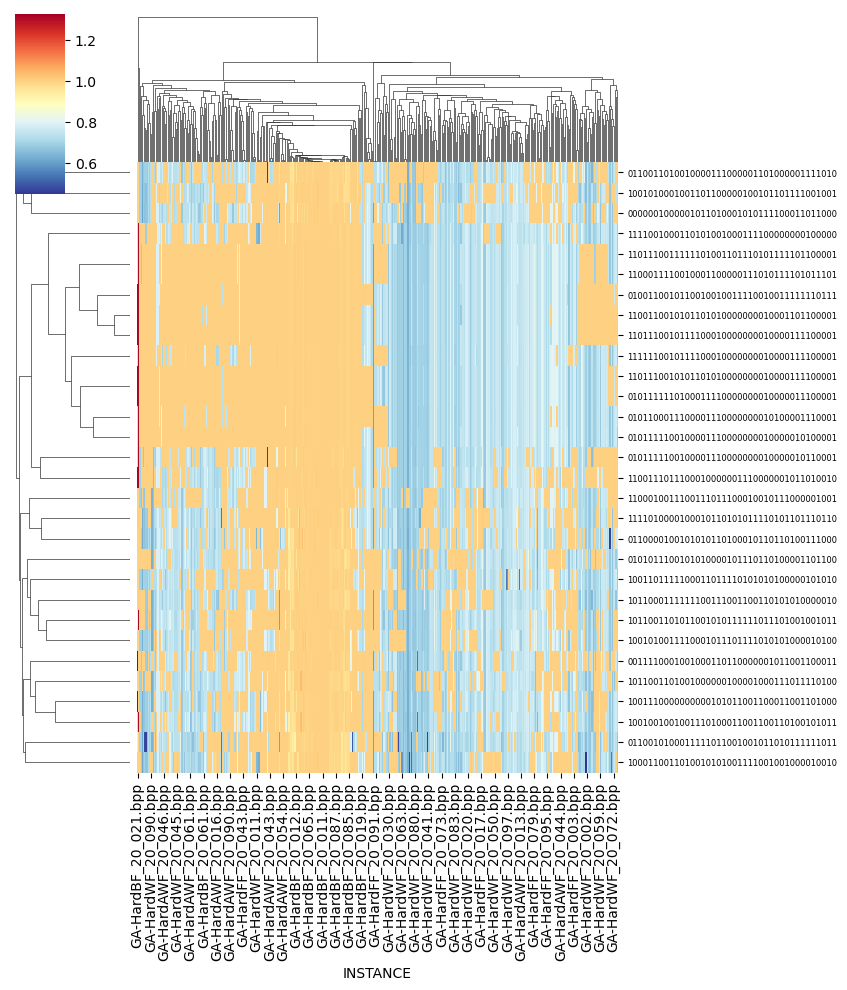
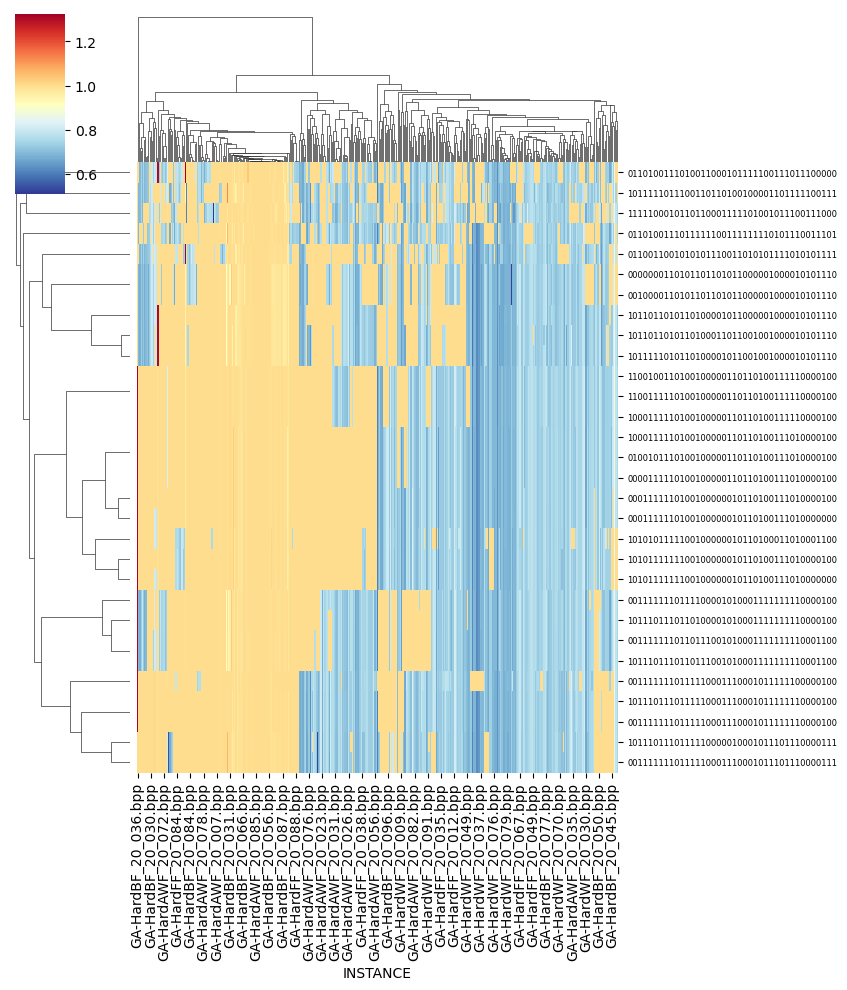
Medio_optimizado
Se hizo lo que se pudo, le voy a dar ota revisada para que quede mas bonito

diff --git a/hhprojectAll.py b/hhprojectAll.py
@@ -71,7 +71,7 @@ def solveHH(testGroup : str, hyperHeuristic : HyperHeuristic):
     # WARNING, TAKE EXTREME CAUTION IF YOU WANT TO USE THE REAL HEURISTIC SPACE, IF SO, COMMENT THE LINE BELOW AND MAY GOD HELP YOU... RIP  # 
     # !!!!!!!!!!!!!!!!!!!!!!!!!!!!!!!!!!!!!!!!!!!!!!!!!!!!!!!!!!!!!!!!!!!!!!!!!!!!!!!!!!!!!!!!!!!!!!!!!!!!!!!!!!!!!!!!!!!!!!!!!!!!!!!!!!!!! #
     # !!!!!!!!!!!!!!!!!!!!!!!!!!!!!!!!!!!!!!!!!!!!!!!!!!!!!!!!!!!!!!!!!!!!!!!!!!!!!!!!!!!!!!!!!!!!!!!!!!!!!!!!!!!!!!!!!!!!!!!!!!!!!!!!!!!!! #
-    heuristicSpaceToExplore = 60
+    heuristicSpaceToExplore = 10000
 
     prueba = hyperHeuristic.solveAll(testGroup, heuristicSpaceToExplore)
     return prueba
@@ -112,125 +112,61 @@ hh.train("Instances/FFP/FFP-Training.csv")
 solveHH("FFP", "Instances/FFP/Test I", hh)
 """
 
-###### ANALYSIS
+###### ANALYSIS ######
+
+def clustermap_analysis(df, filename):
+    g = sns.clustermap(df, cmap='RdYlBu_r')
+    g.ax_heatmap.set_yticklabels(g.ax_heatmap.get_ymajorticklabels(), fontsize=6)
+    g.savefig(filename)
 
 def dendogram_analysis(allScores_allSequences : dict, dict1 : dict, testGroup : str):
     problemInstances = pd.read_csv(f"BPP-{testGroup}.csv")
     column_values = problemInstances["INSTANCE"]
 
-    
-    # Get the array's values and make a matrix of sequences vs instances
+    # Generate a dataframe with sequences as rows and instances as columns
     matrix_allScores_allSequences = np.vstack(list(allScores_allSequences.values()))
-
-    # Create a dataframe 
     df_allScores_allSequences = pd.DataFrame(matrix_allScores_allSequences, index=allScores_allSequences.keys(), columns=column_values)
-
-    # Rotate the dataframe in order to have the instances in the columns
     df_allScores_allSequences.transpose()
-    
-    # Rename from sequences to heuristics 01010101 -> "bfit", "bfit"
-    #df_allScores_allSequences.rename(index=lambda x: fromGenToSeq(x, heuristics), inplace=True)
 
-    # Get the values of the average of the evaluation of each sequence
+    # add the avg score for each sequence to the dataframe in order to sort it
     avg_norm = np.vstack(list(dict1.values()))
-
-    # Update the dataframe with the average of the evaluation of each sequence
     df_allScores_allSequences['avg_norm'] = avg_norm
 
-    ########### ANALYZING THE TOP 30 SEQUENCES WITH THE WORST PERFORMANCE ###########
-    
-    # Sort the dataframe
+    # sort the dataframe
     df_sorted = df_allScores_allSequences.sort_values(by='avg_norm', ascending=True)
-    
-    #Delete the column with the average of the evaluation of each sequence
-    df_sorted = df_sorted.drop(columns=['avg_norm'])
 
-    # Create the clustermap with a larger figure size and specific aspect ratio
-    g = sns.clustermap(df_sorted.head(30), cmap='RdYlBu_r')
+    # delete the column, because we are not analysing the average yet
+    df_sorted_without_avg = df_sorted.drop(columns=['avg_norm'])
 
-    # Adjust the y-axis label size
-    g.ax_heatmap.set_yticklabels(g.ax_heatmap.get_ymajorticklabels(), fontsize=6)  # Set the y-axis labels font size
+    # analyze the 30 sequences with BEST and WORST average
+    clustermap_analysis(df_sorted_without_avg.head(30), "30_worst.png")
+    clustermap_analysis(df_sorted_without_avg.tail(30), "30_best.png")
 
-    g.savefig("30_worst.png")
-
-    ########### ANALYZING THE TOP 30 SEQUENCES WITH THE BEST PERFORMANCE ###########
-
-    # Create the clustermap with a larger figure size and specific aspect ratio
-    h = sns.clustermap(df_sorted.tail(30), cmap='RdYlBu_r')
-
-    # Adjust the y-axis label size
-    h.ax_heatmap.set_yticklabels(g.ax_heatmap.get_ymajorticklabels(), fontsize=6)  # Set the y-axis labels font size
-
-    h.savefig("30_best.png")
-
-    ########### ANALYZING THE TOP 30 SEQUENCES WITH MORE VARIANCE ###########
-    # Calculate the standard deviation for each row
+    # calculate standard deviation and visualize the 30 sequences with more variance
     row_std_dev = df_sorted.std(axis=1)
-
-    # Select the top 30 rows with the highest standard deviation
     top_30_rows_indices = row_std_dev.nlargest(30).index
-
-    # Create a new DataFrame containing only the top 30 rows
     df_top_30_rows = df_sorted.loc[top_30_rows_indices]  
+    clustermap_analysis(df_top_30_rows, "30_std_dev_more.png")
 
-    # Create the clustermap with a larger figure size and specific aspect ratio
-    k = sns.clustermap(df_top_30_rows, cmap='RdYlBu_r')
-
-    # Adjust the y-axis label size
-    k.ax_heatmap.set_yticklabels(g.ax_heatmap.get_ymajorticklabels(), fontsize=6)  # Set the y-axis labels font size
-
-    k.savefig("30_std_dev_more.png")
-
-    ### with LESS standar deviation
-
+    # visualize the 30 sequences with less variance
     bottom_30_rows_indices = row_std_dev.nsmallest(30).index
-
-    # Create a new DataFrame containing only the bottom 30 rows
     df_bottom_30_rows = df_sorted.loc[bottom_30_rows_indices]
+    clustermap_analysis(df_bottom_30_rows, "30_std_dev_less.png")
 
-    # Create the clustermap with a larger figure size and specific aspect ratio
-    m = sns.clustermap(df_bottom_30_rows, cmap='RdYlBu_r')
-
-    # Adjust the y-axis label size
-    m.ax_heatmap.set_yticklabels(g.ax_heatmap.get_ymajorticklabels(), fontsize=6)  # Set the y-axis labels font size
-
-    m.savefig("30_std_dev_less.png")
-
-    ##################################################
-    ##### SELECTING THE 30 INSTANCES WITH MORE CHANGES
-
+    # visualize only the 30 instances with more variance
     std_dev = df_sorted.std()
-
-    # Select the top 30 columns with the greatest standard deviation
     top_30_columns = std_dev.nlargest(30).index
-
-    # Create a new DataFrame containing only the top 30 columns
     df_top_30 = df_sorted[top_30_columns]
 
-    ########### ANALYZING THE TOP 30 SEQUENCES WITH THE WORST PERFORMANCE ###########
-    
+    # visualize only the 30 instances with less variance
+    std_dev = df_sorted.std()
+    bottom_30_columns = std_dev.nsmallest(30).index
+    df_bottom_30 = df_sorted[bottom_30_columns]    
 
-    # Create the clustermap with a larger figure size and specific aspect ratio
-    i = sns.clustermap(df_top_30.head(30), cmap='RdYlBu_r')
-
-    # Adjust the y-axis label size
-    i.ax_heatmap.set_yticklabels(g.ax_heatmap.get_ymajorticklabels(), fontsize=6)  # Set the y-axis labels font size
-
-    i.savefig("30_worst_30_instances.png")
-
-     ########### ANALYZING THE TOP 30 SEQUENCES WITH THE BEST PERFORMANCE ###########
-    
-
-    # Create the clustermap with a larger figure size and specific aspect ratio
-    j = sns.clustermap(df_top_30.tail(30), cmap='RdYlBu_r')
-
-    # Adjust the y-axis label size
-    j.ax_heatmap.set_yticklabels(g.ax_heatmap.get_ymajorticklabels(), fontsize=6)  # Set the y-axis labels font size
-
-    j.savefig("30_best_30_instances.png")
-
-
-
+    clustermap_analysis(df_top_30.head(30), "30_worst_30_instances.png")
+    clustermap_analysis(df_top_30.tail(30), "30_best_30_instances.png")
+    clustermap_analysis(df_bottom_30.head(30), "30_worst_30_instances_less.png")
+    clustermap_analysis(df_bottom_30.tail(30), "30_best_30_instances_less.png")
 
 
 dendogram_analysis(allScores_allSequences,dict1, "Test I")
